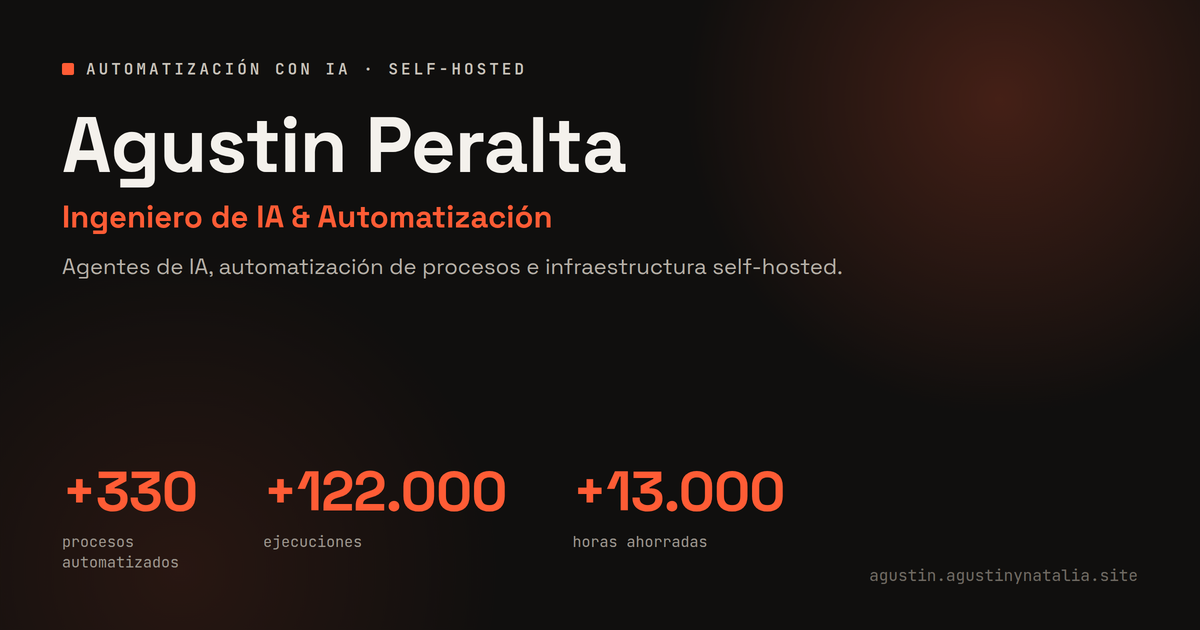
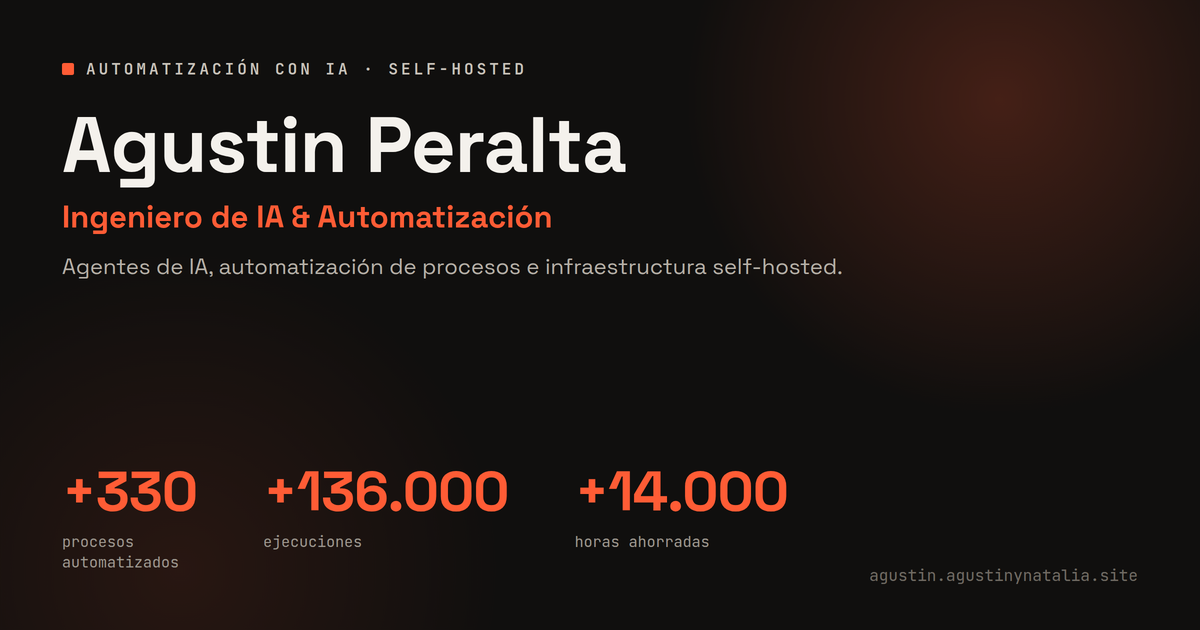
Actualiza OG con metricas reales del tracker (+330 procesos, +136.000 ejecuciones, +14.000 horas)

Changed region(s): [[0.4933, 0.7238, 0.6783, 0.8143], [0.2467, 0.754, 0.4317, 0.8143], [0.4625, 0.8444, 0.5858, 0.8746]]

diff --git a/guias/agente-ia-demo-a-produccion.html b/guias/agente-ia-demo-a-produccion.html
@@ -13,19 +13,19 @@
 <meta property="og:title" content="Cómo llevar un agente de IA de la demo a producción — Agustin Peralta">
 <meta property="og:description" content="Una demo de un agente de IA impresiona en cinco minutos. Producción es que ejecute acciones reales, sin supervisión, sin romper nada y pudiendo explicar qué hizo. Te cuento cómo hago ese salto: permisos graduales, reversibilidad, human-in-the-loop, trazabilidad y qué pasa cuando el agente se equivoca.">
 <meta property="og:url" content="https://agustin.agustinynatalia.site/guias/agente-ia-demo-a-produccion.html">
-<meta property="og:image" content="https://agustin.agustinynatalia.site/og-image.png?v=330-122000-13000">
+<meta property="og:image" content="https://agustin.agustinynatalia.site/og-image.png?v=330-136000-14000">
 <meta property="og:site_name" content="Agustin Peralta">
 <meta property="og:locale" content="es_CO">
 <meta name="twitter:card" content="summary_large_image">
 <meta name="twitter:title" content="Cómo llevar un agente de IA de la demo a producción — Agustin Peralta">
 <meta name="twitter:description" content="Una demo de un agente de IA impresiona en cinco minutos. Producción es que ejecute acciones reales, sin supervisión, sin romper nada y pudiendo explicar qué hizo. Te cuento cómo hago ese salto: permisos graduales, reversibilidad, human-in-the-loop, trazabilidad y qué pasa cuando el agente se equivoca.">
-<meta name="twitter:image" content="https://agustin.agustinynatalia.site/og-image.png?v=330-122000-13000">
+<meta name="twitter:image" content="https://agustin.agustinynatalia.site/og-image.png?v=330-136000-14000">
 <meta name="theme-color" content="#f1efe9">
 <script>try{if(localStorage.getItem("ap-theme")==="dark")document.documentElement.style.background="#0b0b0d"}catch(e){}</script>
 <link rel="preconnect" href="https://fonts.googleapis.com">
 <link rel="preconnect" href="https://fonts.gstatic.com" crossorigin>
 <link href="https://fonts.googleapis.com/css2?family=Space+Grotesk:wght@400;500;600;700&family=JetBrains+Mono:wght@400;500;600;700&display=swap" rel="stylesheet">
-<script type="application/ld+json">{"@context":"https://schema.org","@graph":[{"@type":"BlogPosting","headline":"Cómo llevar un agente de IA de la demo a producción","description":"Una demo de un agente de IA impresiona en cinco minutos. Producción es que ejecute acciones reales, sin supervisión, sin romper nada y pudiendo explicar qué hizo. Te cuento cómo hago ese salto: permisos graduales, reversibilidad, human-in-the-loop, trazabilidad y qué pasa cuando el agente se equivoca.","inLanguage":"es","mainEntityOfPage":{"@type":"WebPage","@id":"https://agustin.agustinynatalia.site/guias/agente-ia-demo-a-produccion.html"},"url":"https://agustin.agustinynatalia.site/guias/agente-ia-demo-a-produccion.html","author":{"@type":"Person","name":"Agustin Peralta","url":"https://agustin.agustinynatalia.site/","@id":"https://agustin.agustinynatalia.site/#person"},"publisher":{"@type":"Person","name":"Agustin Peralta","@id":"https://agustin.agustinynatalia.site/#person"},"image":"https://agustin.agustinynatalia.site/og-image.png?v=330-122000-13000","articleSection":"Agentes de IA en producción","keywords":"Agentes de IA, IA en producción, n8n, Human-in-the-loop, Trazabilidad","datePublished":"2026-07-01","dateModified":"2026-07-01"},{"@type":"BreadcrumbList","itemListElement":[{"@type":"ListItem","position":1,"name":"Inicio","item":"https://agustin.agustinynatalia.site/"},{"@type":"ListItem","position":2,"name":"Guías","item":"https://agustin.agustinynatalia.site/index.html#guias"},{"@type":"ListItem","position":3,"name":"Cómo llevar un agente de IA de la demo a producción","item":"https://agustin.agustinynatalia.site/guias/agente-ia-demo-a-produccion.html"}]}]}</script>
+<script type="application/ld+json">{"@context":"https://schema.org","@graph":[{"@type":"BlogPosting","headline":"Cómo llevar un agente de IA de la demo a producción","description":"Una demo de un agente de IA impresiona en cinco minutos. Producción es que ejecute acciones reales, sin supervisión, sin romper nada y pudiendo explicar qué hizo. Te cuento cómo hago ese salto: permisos graduales, reversibilidad, human-in-the-loop, trazabilidad y qué pasa cuando el agente se equivoca.","inLanguage":"es","mainEntityOfPage":{"@type":"WebPage","@id":"https://agustin.agustinynatalia.site/guias/agente-ia-demo-a-produccion.html"},"url":"https://agustin.agustinynatalia.site/guias/agente-ia-demo-a-produccion.html","author":{"@type":"Person","name":"Agustin Peralta","url":"https://agustin.agustinynatalia.site/","@id":"https://agustin.agustinynatalia.site/#person"},"publisher":{"@type":"Person","name":"Agustin Peralta","@id":"https://agustin.agustinynatalia.site/#person"},"image":"https://agustin.agustinynatalia.site/og-image.png?v=330-136000-14000","articleSection":"Agentes de IA en producción","keywords":"Agentes de IA, IA en producción, n8n, Human-in-the-loop, Trazabilidad","datePublished":"2026-07-01","dateModified":"2026-07-01"},{"@type":"BreadcrumbList","itemListElement":[{"@type":"ListItem","position":1,"name":"Inicio","item":"https://agustin.agustinynatalia.site/"},{"@type":"ListItem","position":2,"name":"Guías","item":"https://agustin.agustinynatalia.site/index.html#guias"},{"@type":"ListItem","position":3,"name":"Cómo llevar un agente de IA de la demo a producción","item":"https://agustin.agustinynatalia.site/guias/agente-ia-demo-a-produccion.html"}]}]}</script>
 <script defer src="https://umami.agustinynatalia.site/script.js" data-website-id="1edc5673-c0ea-4380-9e9a-1c5dce95f938"></script>
 <style>
 *{margin:0;padding:0;box-sizing:border-box}

diff --git a/guias/senales-proceso-automatizar.html b/guias/senales-proceso-automatizar.html
@@ -13,19 +13,19 @@
 <meta property="og:title" content="Cómo automatizar los procesos de tu empresa con IA: 6 señales para saber cuáles — Agustin Peralta">
 <meta property="og:description" content="¿Cómo automatizar los procesos de tu empresa con IA sin equivocarte? Te doy las 6 señales que reviso para saber qué proceso automatizar, una regla para puntuarlas y el orden correcto para no automatizar un proceso roto.">
 <meta property="og:url" content="https://agustin.agustinynatalia.site/guias/senales-proceso-automatizar.html">
-<meta property="og:image" content="https://agustin.agustinynatalia.site/og-image.png?v=330-122000-13000">
+<meta property="og:image" content="https://agustin.agustinynatalia.site/og-image.png?v=330-136000-14000">
 <meta property="og:site_name" content="Agustin Peralta">
 <meta property="og:locale" content="es_CO">
 <meta name="twitter:card" content="summary_large_image">
 <meta name="twitter:title" content="Cómo automatizar los procesos de tu empresa con IA: 6 señales para saber cuáles — Agustin Peralta">
 <meta name="twitter:description" content="¿Cómo automatizar los procesos de tu empresa con IA sin equivocarte? Te doy las 6 señales que reviso para saber qué proceso automatizar, una regla para puntuarlas y el orden correcto para no automatizar un proceso roto.">
-<meta name="twitter:image" content="https://agustin.agustinynatalia.site/og-image.png?v=330-122000-13000">
+<meta name="twitter:image" content="https://agustin.agustinynatalia.site/og-image.png?v=330-136000-14000">
 <meta name="theme-color" content="#f1efe9">
 <script>try{if(localStorage.getItem("ap-theme")==="dark")document.documentElement.style.background="#0b0b0d"}catch(e){}</script>
 <link rel="preconnect" href="https://fonts.googleapis.com">
 <link rel="preconnect" href="https://fonts.gstatic.com" crossorigin>
 <link href="https://fonts.googleapis.com/css2?family=Space+Grotesk:wght@400;500;600;700&family=JetBrains+Mono:wght@400;500;600;700&display=swap" rel="stylesheet">
-<script type="application/ld+json">{"@context":"https://schema.org","@graph":[{"@type":"BlogPosting","headline":"Cómo automatizar los procesos de tu empresa con IA: 6 señales para saber cuáles","description":"¿Cómo automatizar los procesos de tu empresa con IA sin equivocarte? Te doy las 6 señales que reviso para saber qué proceso automatizar, una regla para puntuarlas y el orden correcto para no automatizar un proceso roto.","inLanguage":"es","mainEntityOfPage":{"@type":"WebPage","@id":"https://agustin.agustinynatalia.site/guias/senales-proceso-automatizar.html"},"url":"https://agustin.agustinynatalia.site/guias/senales-proceso-automatizar.html","author":{"@type":"Person","name":"Agustin Peralta","url":"https://agustin.agustinynatalia.site/","@id":"https://agustin.agustinynatalia.site/#person"},"publisher":{"@type":"Person","name":"Agustin Peralta","@id":"https://agustin.agustinynatalia.site/#person"},"image":"https://agustin.agustinynatalia.site/og-image.png?v=330-122000-13000","articleSection":"Automatización de procesos","keywords":"n8n, Automatización con IA, Rediseño de procesos, IA","datePublished":"2026-07-01","dateModified":"2026-07-01"},{"@type":"BreadcrumbList","itemListElement":[{"@type":"ListItem","position":1,"name":"Inicio","item":"https://agustin.agustinynatalia.site/"},{"@type":"ListItem","position":2,"name":"Guías","item":"https://agustin.agustinynatalia.site/index.html#guias"},{"@type":"ListItem","position":3,"name":"Cómo automatizar los procesos de tu empresa con IA: 6 señales para saber cuáles","item":"https://agustin.agustinynatalia.site/guias/senales-proceso-automatizar.html"}]}]}</script>
+<script type="application/ld+json">{"@context":"https://schema.org","@graph":[{"@type":"BlogPosting","headline":"Cómo automatizar los procesos de tu empresa con IA: 6 señales para saber cuáles","description":"¿Cómo automatizar los procesos de tu empresa con IA sin equivocarte? Te doy las 6 señales que reviso para saber qué proceso automatizar, una regla para puntuarlas y el orden correcto para no automatizar un proceso roto.","inLanguage":"es","mainEntityOfPage":{"@type":"WebPage","@id":"https://agustin.agustinynatalia.site/guias/senales-proceso-automatizar.html"},"url":"https://agustin.agustinynatalia.site/guias/senales-proceso-automatizar.html","author":{"@type":"Person","name":"Agustin Peralta","url":"https://agustin.agustinynatalia.site/","@id":"https://agustin.agustinynatalia.site/#person"},"publisher":{"@type":"Person","name":"Agustin Peralta","@id":"https://agustin.agustinynatalia.site/#person"},"image":"https://agustin.agustinynatalia.site/og-image.png?v=330-136000-14000","articleSection":"Automatización de procesos","keywords":"n8n, Automatización con IA, Rediseño de procesos, IA","datePublished":"2026-07-01","dateModified":"2026-07-01"},{"@type":"BreadcrumbList","itemListElement":[{"@type":"ListItem","position":1,"name":"Inicio","item":"https://agustin.agustinynatalia.site/"},{"@type":"ListItem","position":2,"name":"Guías","item":"https://agustin.agustinynatalia.site/index.html#guias"},{"@type":"ListItem","position":3,"name":"Cómo automatizar los procesos de tu empresa con IA: 6 señales para saber cuáles","item":"https://agustin.agustinynatalia.site/guias/senales-proceso-automatizar.html"}]}]}</script>
 <script defer src="https://umami.agustinynatalia.site/script.js" data-website-id="1edc5673-c0ea-4380-9e9a-1c5dce95f938"></script>
 <style>
 *{margin:0;padding:0;box-sizing:border-box}

diff --git a/guias/buscadores-ia-cual-elegir.html b/guias/buscadores-ia-cual-elegir.html
@@ -13,19 +13,19 @@
 <meta property="og:title" content="Los mejores buscadores con IA en 2026: Perplexity vs ChatGPT vs Google — Agustin Peralta">
 <meta property="og:description" content="¿Cuáles son los mejores buscadores con IA? Perplexity, ChatGPT Search y Google AI Mode cuestan casi lo mismo (unos 20 USD al mes). Te cuento en qué es mejor cada uno, cuánto cuestan de verdad y cuál elegir según lo que hagas.">
 <meta property="og:url" content="https://agustin.agustinynatalia.site/guias/buscadores-ia-cual-elegir.html">
-<meta property="og:image" content="https://agustin.agustinynatalia.site/og-image.png?v=330-122000-13000">
+<meta property="og:image" content="https://agustin.agustinynatalia.site/og-image.png?v=330-136000-14000">
 <meta property="og:site_name" content="Agustin Peralta">
 <meta property="og:locale" content="es_CO">
 <meta name="twitter:card" content="summary_large_image">
 <meta name="twitter:title" content="Los mejores buscadores con IA en 2026: Perplexity vs ChatGPT vs Google — Agustin Peralta">
 <meta name="twitter:description" content="¿Cuáles son los mejores buscadores con IA? Perplexity, ChatGPT Search y Google AI Mode cuestan casi lo mismo (unos 20 USD al mes). Te cuento en qué es mejor cada uno, cuánto cuestan de verdad y cuál elegir según lo que hagas.">
-<meta name="twitter:image" content="https://agustin.agustinynatalia.site/og-image.png?v=330-122000-13000">
+<meta name="twitter:image" content="https://agustin.agustinynatalia.site/og-image.png?v=330-136000-14000">
 <meta name="theme-color" content="#f1efe9">
 <script>try{if(localStorage.getItem("ap-theme")==="dark")document.documentElement.style.background="#0b0b0d"}catch(e){}</script>
 <link rel="preconnect" href="https://fonts.googleapis.com">
 <link rel="preconnect" href="https://fonts.gstatic.com" crossorigin>
 <link href="https://fonts.googleapis.com/css2?family=Space+Grotesk:wght@400;500;600;700&family=JetBrains+Mono:wght@400;500;600;700&display=swap" rel="stylesheet">
-<script type="application/ld+json">{"@context":"https://schema.org","@graph":[{"@type":"BlogPosting","headline":"Los mejores buscadores con IA en 2026: Perplexity vs ChatGPT vs Google","description":"¿Cuáles son los mejores buscadores con IA? Perplexity, ChatGPT Search y Google AI Mode cuestan casi lo mismo (unos 20 USD al mes). Te cuento en qué es mejor cada uno, cuánto cuestan de verdad y cuál elegir según lo que hagas.","inLanguage":"es","mainEntityOfPage":{"@type":"WebPage","@id":"https://agustin.agustinynatalia.site/guias/buscadores-ia-cual-elegir.html"},"url":"https://agustin.agustinynatalia.site/guias/buscadores-ia-cual-elegir.html","author":{"@type":"Person","name":"Agustin Peralta","url":"https://agustin.agustinynatalia.site/","@id":"https://agustin.agustinynatalia.site/#person"},"publisher":{"@type":"Person","name":"Agustin Peralta","@id":"https://agustin.agustinynatalia.site/#person"},"image":"https://agustin.agustinynatalia.site/og-image.png?v=330-122000-13000","articleSection":"Buscadores con IA","keywords":"Perplexity, ChatGPT Search, Google AI Mode, Gemini, Claude","datePublished":"2026-07-01","dateModified":"2026-07-01"},{"@type":"BreadcrumbList","itemListElement":[{"@type":"ListItem","position":1,"name":"Inicio","item":"https://agustin.agustinynatalia.site/"},{"@type":"ListItem","position":2,"name":"Guías","item":"https://agustin.agustinynatalia.site/index.html#guias"},{"@type":"ListItem","position":3,"name":"Los mejores buscadores con IA en 2026: Perplexity vs ChatGPT vs Google","item":"https://agustin.agustinynatalia.site/guias/buscadores-ia-cual-elegir.html"}]}]}</script>
+<script type="application/ld+json">{"@context":"https://schema.org","@graph":[{"@type":"BlogPosting","headline":"Los mejores buscadores con IA en 2026: Perplexity vs ChatGPT vs Google","description":"¿Cuáles son los mejores buscadores con IA? Perplexity, ChatGPT Search y Google AI Mode cuestan casi lo mismo (unos 20 USD al mes). Te cuento en qué es mejor cada uno, cuánto cuestan de verdad y cuál elegir según lo que hagas.","inLanguage":"es","mainEntityOfPage":{"@type":"WebPage","@id":"https://agustin.agustinynatalia.site/guias/buscadores-ia-cual-elegir.html"},"url":"https://agustin.agustinynatalia.site/guias/buscadores-ia-cual-elegir.html","author":{"@type":"Person","name":"Agustin Peralta","url":"https://agustin.agustinynatalia.site/","@id":"https://agustin.agustinynatalia.site/#person"},"publisher":{"@type":"Person","name":"Agustin Peralta","@id":"https://agustin.agustinynatalia.site/#person"},"image":"https://agustin.agustinynatalia.site/og-image.png?v=330-136000-14000","articleSection":"Buscadores con IA","keywords":"Perplexity, ChatGPT Search, Google AI Mode, Gemini, Claude","datePublished":"2026-07-01","dateModified":"2026-07-01"},{"@type":"BreadcrumbList","itemListElement":[{"@type":"ListItem","position":1,"name":"Inicio","item":"https://agustin.agustinynatalia.site/"},{"@type":"ListItem","position":2,"name":"Guías","item":"https://agustin.agustinynatalia.site/index.html#guias"},{"@type":"ListItem","position":3,"name":"Los mejores buscadores con IA en 2026: Perplexity vs ChatGPT vs Google","item":"https://agustin.agustinynatalia.site/guias/buscadores-ia-cual-elegir.html"}]}]}</script>
 <script defer src="https://umami.agustinynatalia.site/script.js" data-website-id="1edc5673-c0ea-4380-9e9a-1c5dce95f938"></script>
 <style>
 *{margin:0;padding:0;box-sizing:border-box}

diff --git a/guias/self-hosting-ahorro.html b/guias/self-hosting-ahorro.html
@@ -13,19 +13,19 @@
 <meta property="og:title" content="5 herramientas open source gratis para reemplazar tus suscripciones (Zapier, Notion y más) — Agustin Peralta">
 <meta property="og:description" content="Herramientas open source gratis para reemplazar suscripciones SaaS como Zapier, Notion y Vercel en tu propio servidor. Te cuento qué usaba antes, con qué lo cambié y qué gano y qué pierdo.">
 <meta property="og:url" content="https://agustin.agustinynatalia.site/guias/self-hosting-ahorro.html">
-<meta property="og:image" content="https://agustin.agustinynatalia.site/og-image.png?v=330-122000-13000">
+<meta property="og:image" content="https://agustin.agustinynatalia.site/og-image.png?v=330-136000-14000">
 <meta property="og:site_name" content="Agustin Peralta">
 <meta property="og:locale" content="es_CO">
 <meta name="twitter:card" content="summary_large_image">
 <meta name="twitter:title" content="5 herramientas open source gratis para reemplazar tus suscripciones (Zapier, Notion y más) — Agustin Peralta">
 <meta name="twitter:description" content="Herramientas open source gratis para reemplazar suscripciones SaaS como Zapier, Notion y Vercel en tu propio servidor. Te cuento qué usaba antes, con qué lo cambié y qué gano y qué pierdo.">
-<meta name="twitter:image" content="https://agustin.agustinynatalia.site/og-image.png?v=330-122000-13000">
+<meta name="twitter:image" content="https://agustin.agustinynatalia.site/og-image.png?v=330-136000-14000">
 <meta name="theme-color" content="#f1efe9">
 <script>try{if(localStorage.getItem("ap-theme")==="dark")document.documentElement.style.background="#0b0b0d"}catch(e){}</script>
 <link rel="preconnect" href="https://fonts.googleapis.com">
 <link rel="preconnect" href="https://fonts.gstatic.com" crossorigin>
 <link href="https://fonts.googleapis.com/css2?family=Space+Grotesk:wght@400;500;600;700&family=JetBrains+Mono:wght@400;500;600;700&display=swap" rel="stylesheet">
-<script type="application/ld+json">{"@context":"https://schema.org","@graph":[{"@type":"BlogPosting","headline":"5 herramientas open source gratis para reemplazar tus suscripciones (Zapier, Notion y más)","description":"Herramientas open source gratis para reemplazar suscripciones SaaS como Zapier, Notion y Vercel en tu propio servidor. Te cuento qué usaba antes, con qué lo cambié y qué gano y qué pierdo.","inLanguage":"es","mainEntityOfPage":{"@type":"WebPage","@id":"https://agustin.agustinynatalia.site/guias/self-hosting-ahorro.html"},"url":"https://agustin.agustinynatalia.site/guias/self-hosting-ahorro.html","author":{"@type":"Person","name":"Agustin Peralta","url":"https://agustin.agustinynatalia.site/","@id":"https://agustin.agustinynatalia.site/#person"},"publisher":{"@type":"Person","name":"Agustin Peralta","@id":"https://agustin.agustinynatalia.site/#person"},"image":"https://agustin.agustinynatalia.site/og-image.png?v=330-122000-13000","articleSection":"Self-hosting + ahorro","keywords":"Umami, n8n, Coolify, PostgreSQL, Outline, Self-hosted (Docker), Servidor propio","datePublished":"2026-06-01","dateModified":"2026-06-01"},{"@type":"BreadcrumbList","itemListElement":[{"@type":"ListItem","position":1,"name":"Inicio","item":"https://agustin.agustinynatalia.site/"},{"@type":"ListItem","position":2,"name":"Guías","item":"https://agustin.agustinynatalia.site/index.html#guias"},{"@type":"ListItem","position":3,"name":"5 herramientas open source gratis para reemplazar tus suscripciones (Zapier, Notion y más)","item":"https://agustin.agustinynatalia.site/guias/self-hosting-ahorro.html"}]}]}</script>
+<script type="application/ld+json">{"@context":"https://schema.org","@graph":[{"@type":"BlogPosting","headline":"5 herramientas open source gratis para reemplazar tus suscripciones (Zapier, Notion y más)","description":"Herramientas open source gratis para reemplazar suscripciones SaaS como Zapier, Notion y Vercel en tu propio servidor. Te cuento qué usaba antes, con qué lo cambié y qué gano y qué pierdo.","inLanguage":"es","mainEntityOfPage":{"@type":"WebPage","@id":"https://agustin.agustinynatalia.site/guias/self-hosting-ahorro.html"},"url":"https://agustin.agustinynatalia.site/guias/self-hosting-ahorro.html","author":{"@type":"Person","name":"Agustin Peralta","url":"https://agustin.agustinynatalia.site/","@id":"https://agustin.agustinynatalia.site/#person"},"publisher":{"@type":"Person","name":"Agustin Peralta","@id":"https://agustin.agustinynatalia.site/#person"},"image":"https://agustin.agustinynatalia.site/og-image.png?v=330-136000-14000","articleSection":"Self-hosting + ahorro","keywords":"Umami, n8n, Coolify, PostgreSQL, Outline, Self-hosted (Docker), Servidor propio","datePublished":"2026-06-01","dateModified":"2026-06-01"},{"@type":"BreadcrumbList","itemListElement":[{"@type":"ListItem","position":1,"name":"Inicio","item":"https://agustin.agustinynatalia.site/"},{"@type":"ListItem","position":2,"name":"Guías","item":"https://agustin.agustinynatalia.site/index.html#guias"},{"@type":"ListItem","position":3,"name":"5 herramientas open source gratis para reemplazar tus suscripciones (Zapier, Notion y más)","item":"https://agustin.agustinynatalia.site/guias/self-hosting-ahorro.html"}]}]}</script>
 <script defer src="https://umami.agustinynatalia.site/script.js" data-website-id="1edc5673-c0ea-4380-9e9a-1c5dce95f938"></script>
 <style>
 *{margin:0;padding:0;box-sizing:border-box}

diff --git a/guias/sistema-conocimiento-outline.html b/guias/sistema-conocimiento-outline.html
@@ -13,19 +13,19 @@
 <meta property="og:title" content="Cómo conecté un agente de IA a mi base de conocimiento (segundo cerebro self-hosted) — Agustin Peralta">
 <meta property="og:description" content="Conecté un agente de IA a mi propia base de conocimiento self-hosted (Outline, open source, en mi servidor). Te explico qué es, cómo funciona y sus pros y contras.">
 <meta property="og:url" content="https://agustin.agustinynatalia.site/guias/sistema-conocimiento-outline.html">
-<meta property="og:image" content="https://agustin.agustinynatalia.site/og-image.png?v=330-122000-13000">
+<meta property="og:image" content="https://agustin.agustinynatalia.site/og-image.png?v=330-136000-14000">
 <meta property="og:site_name" content="Agustin Peralta">
 <meta property="og:locale" content="es_CO">
 <meta name="twitter:card" content="summary_large_image">
 <meta name="twitter:title" content="Cómo conecté un agente de IA a mi base de conocimiento (segundo cerebro self-hosted) — Agustin Peralta">
 <meta name="twitter:description" content="Conecté un agente de IA a mi propia base de conocimiento self-hosted (Outline, open source, en mi servidor). Te explico qué es, cómo funciona y sus pros y contras.">
-<meta name="twitter:image" content="https://agustin.agustinynatalia.site/og-image.png?v=330-122000-13000">
+<meta name="twitter:image" content="https://agustin.agustinynatalia.site/og-image.png?v=330-136000-14000">
 <meta name="theme-color" content="#f1efe9">
 <script>try{if(localStorage.getItem("ap-theme")==="dark")document.documentElement.style.background="#0b0b0d"}catch(e){}</script>
 <link rel="preconnect" href="https://fonts.googleapis.com">
 <link rel="preconnect" href="https://fonts.gstatic.com" crossorigin>
 <link href="https://fonts.googleapis.com/css2?family=Space+Grotesk:wght@400;500;600;700&family=JetBrains+Mono:wght@400;500;600;700&display=swap" rel="stylesheet">
-<script type="application/ld+json">{"@context":"https://schema.org","@graph":[{"@type":"BlogPosting","headline":"Cómo conecté un agente de IA a mi base de conocimiento (segundo cerebro self-hosted)","description":"Conecté un agente de IA a mi propia base de conocimiento self-hosted (Outline, open source, en mi servidor). Te explico qué es, cómo funciona y sus pros y contras.","inLanguage":"es","mainEntityOfPage":{"@type":"WebPage","@id":"https://agustin.agustinynatalia.site/guias/sistema-conocimiento-outline.html"},"url":"https://agustin.agustinynatalia.site/guias/sistema-conocimiento-outline.html","author":{"@type":"Person","name":"Agustin Peralta","url":"https://agustin.agustinynatalia.site/","@id":"https://agustin.agustinynatalia.site/#person"},"publisher":{"@type":"Person","name":"Agustin Peralta","@id":"https://agustin.agustinynatalia.site/#person"},"image":"https://agustin.agustinynatalia.site/og-image.png?v=330-122000-13000","articleSection":"Sistema de conocimiento + IA","keywords":"Outline, Self-hosted (Docker), Servidor propio, Agentes de IA, Transcripción automática","datePublished":"2026-06-01","dateModified":"2026-06-01"},{"@type":"BreadcrumbList","itemListElement":[{"@type":"ListItem","position":1,"name":"Inicio","item":"https://agustin.agustinynatalia.site/"},{"@type":"ListItem","position":2,"name":"Guías","item":"https://agustin.agustinynatalia.site/index.html#guias"},{"@type":"ListItem","position":3,"name":"Cómo conecté un agente de IA a mi base de conocimiento (segundo cerebro self-hosted)","item":"https://agustin.agustinynatalia.site/guias/sistema-conocimiento-outline.html"}]}]}</script>
+<script type="application/ld+json">{"@context":"https://schema.org","@graph":[{"@type":"BlogPosting","headline":"Cómo conecté un agente de IA a mi base de conocimiento (segundo cerebro self-hosted)","description":"Conecté un agente de IA a mi propia base de conocimiento self-hosted (Outline, open source, en mi servidor). Te explico qué es, cómo funciona y sus pros y contras.","inLanguage":"es","mainEntityOfPage":{"@type":"WebPage","@id":"https://agustin.agustinynatalia.site/guias/sistema-conocimiento-outline.html"},"url":"https://agustin.agustinynatalia.site/guias/sistema-conocimiento-outline.html","author":{"@type":"Person","name":"Agustin Peralta","url":"https://agustin.agustinynatalia.site/","@id":"https://agustin.agustinynatalia.site/#person"},"publisher":{"@type":"Person","name":"Agustin Peralta","@id":"https://agustin.agustinynatalia.site/#person"},"image":"https://agustin.agustinynatalia.site/og-image.png?v=330-136000-14000","articleSection":"Sistema de conocimiento + IA","keywords":"Outline, Self-hosted (Docker), Servidor propio, Agentes de IA, Transcripción automática","datePublished":"2026-06-01","dateModified":"2026-06-01"},{"@type":"BreadcrumbList","itemListElement":[{"@type":"ListItem","position":1,"name":"Inicio","item":"https://agustin.agustinynatalia.site/"},{"@type":"ListItem","position":2,"name":"Guías","item":"https://agustin.agustinynatalia.site/index.html#guias"},{"@type":"ListItem","position":3,"name":"Cómo conecté un agente de IA a mi base de conocimiento (segundo cerebro self-hosted)","item":"https://agustin.agustinynatalia.site/guias/sistema-conocimiento-outline.html"}]}]}</script>
 <script defer src="https://umami.agustinynatalia.site/script.js" data-website-id="1edc5673-c0ea-4380-9e9a-1c5dce95f938"></script>
 <style>
 *{margin:0;padding:0;box-sizing:border-box}

diff --git a/index.html b/index.html
@@ -18,7 +18,7 @@ gtag('config', 'G-VTYVQM2HSF');
 <meta property="og:description" content="Agentes de IA, automatización de procesos e infraestructura self-hosted. Más de 12.000 horas de trabajo manual eliminadas.">
 <meta property="og:type" content="website">
 <meta property="og:url" content="https://agustin.agustinynatalia.site/">
-<meta property="og:image" content="https://agustin.agustinynatalia.site/og-image.png?v=330-122000-13000">
+<meta property="og:image" content="https://agustin.agustinynatalia.site/og-image.png?v=330-136000-14000">
 <meta property="og:image:width" content="1200">
 <meta property="og:image:height" content="630">
 <meta property="og:locale" content="es_CO">
@@ -26,7 +26,7 @@ gtag('config', 'G-VTYVQM2HSF');
 <meta name="twitter:card" content="summary_large_image">
 <meta name="twitter:title" content="Agustin Peralta — Ingeniero de IA & Automatización">
 <meta name="twitter:description" content="Agentes de IA, automatización de procesos e infraestructura self-hosted. Más de 12.000 horas de trabajo manual eliminadas.">
-<meta name="twitter:image" content="https://agustin.agustinynatalia.site/og-image.png?v=330-122000-13000">
+<meta name="twitter:image" content="https://agustin.agustinynatalia.site/og-image.png?v=330-136000-14000">
 <meta name="author" content="Agustin Peralta">
 <meta name="keywords" content="Agustin Peralta, ingeniero de automatización, automatización con IA, agentes de IA, n8n, LangGraph, self-hosting, automatización de procesos, integración de sistemas, RAG, Colombia">
 <link rel="alternate" hreflang="es" href="https://agustin.agustinynatalia.site/">
@@ -40,7 +40,7 @@ gtag('config', 'G-VTYVQM2HSF');
       "name": "Agustin Peralta",
       "alternateName": "Agustin Peralta Guarin",
       "url": "https://agustin.agustinynatalia.site/",
-      "image": "https://agustin.agustinynatalia.site/og-image.png?v=330-122000-13000",
+      "image": "https://agustin.agustinynatalia.site/og-image.png?v=330-136000-14000",
       "jobTitle": "Ingeniero de IA y Automatización",
       "description": "Ingeniero de sistemas especializado en inteligencia artificial aplicada y automatización de procesos. Diseño e integro agentes de IA, flujos de trabajo y sistemas self-hosted. Más de 330 procesos automatizados, 113.000 ejecuciones y 12.000 horas de trabajo manual eliminadas.",
       "email": "mailto:aperaltaguarin@gmail.com",

diff --git a/guia.html b/guia.html
@@ -16,11 +16,11 @@ gtag('config', 'G-VTYVQM2HSF');
 <meta property="og:title" content="Guía — Agustin Peralta">
 <meta property="og:description" content="Guías y notas sobre IA, automatización y self-hosting.">
 <meta property="og:type" content="article">
-<meta property="og:image" content="https://agustin.agustinynatalia.site/og-image.png?v=330-122000-13000">
+<meta property="og:image" content="https://agustin.agustinynatalia.site/og-image.png?v=330-136000-14000">
 <meta property="og:site_name" content="Agustin Peralta">
 <meta property="og:locale" content="es_CO">
 <meta name="twitter:card" content="summary_large_image">
-<meta name="twitter:image" content="https://agustin.agustinynatalia.site/og-image.png?v=330-122000-13000">
+<meta name="twitter:image" content="https://agustin.agustinynatalia.site/og-image.png?v=330-136000-14000">
 <meta name="author" content="Agustin Peralta">
 <link rel="canonical" href="https://agustin.agustinynatalia.site/guia">
 <meta name="theme-color" content="#f1efe9">
@@ -76,7 +76,7 @@ document.addEventListener("DOMContentLoaded", function () {
       "url": url,
       "author": { "@type": "Person", "name": "Agustin Peralta", "url": base, "@id": base + "#person" },
       "publisher": { "@type": "Person", "name": "Agustin Peralta", "@id": base + "#person" },
-      "image": g.image || (base + "og-image.png?v=330-122000-13000")
+      "image": g.image || (base + "og-image.png?v=330-136000-14000")
     };
     if (g.category) ld.articleSection = g.category;
     if (published) { ld.datePublished = published; ld.dateModified = published; }

diff --git a/metricas.html b/metricas.html
@@ -18,10 +18,10 @@ gtag('config', 'G-VTYVQM2HSF');
 <meta property="og:description" content="Métricas en vivo de automatizaciones en producción: ejecuciones, horas ahorradas y flujos activos.">
 <meta property="og:type" content="website">
 <meta property="og:url" content="https://agustin.agustinynatalia.site/metricas">
-<meta property="og:image" content="https://agustin.agustinynatalia.site/og-image.png?v=330-122000-13000">
+<meta property="og:image" content="https://agustin.agustinynatalia.site/og-image.png?v=330-136000-14000">
 <meta property="og:site_name" content="Agustin Peralta">
 <meta name="twitter:card" content="summary_large_image">
-<meta name="twitter:image" content="https://agustin.agustinynatalia.site/og-image.png?v=330-122000-13000">
+<meta name="twitter:image" content="https://agustin.agustinynatalia.site/og-image.png?v=330-136000-14000">
 <meta name="author" content="Agustin Peralta">
 <meta name="theme-color" content="#f1efe9">
 <style>x-dc{display:none!important}html{background:#f1efe9}</style>

diff --git a/proyectos.html b/proyectos.html
@@ -18,10 +18,10 @@ gtag('config', 'G-VTYVQM2HSF');
 <meta property="og:description" content="Todos los proyectos de IA, automatización y producto, agrupados por tipo de solución.">
 <meta property="og:type" content="website">
 <meta property="og:url" content="https://agustin.agustinynatalia.site/proyectos">
-<meta property="og:image" content="https://agustin.agustinynatalia.site/og-image.png?v=330-122000-13000">
+<meta property="og:image" content="https://agustin.agustinynatalia.site/og-image.png?v=330-136000-14000">
 <meta property="og:site_name" content="Agustin Peralta">
 <meta name="twitter:card" content="summary_large_image">
-<meta name="twitter:image" content="https://agustin.agustinynatalia.site/og-image.png?v=330-122000-13000">
+<meta name="twitter:image" content="https://agustin.agustinynatalia.site/og-image.png?v=330-136000-14000">
 <meta name="author" content="Agustin Peralta">
 <meta name="theme-color" content="#f1efe9">
 <style>x-dc{display:none!important}html{background:#f1efe9}</style>
